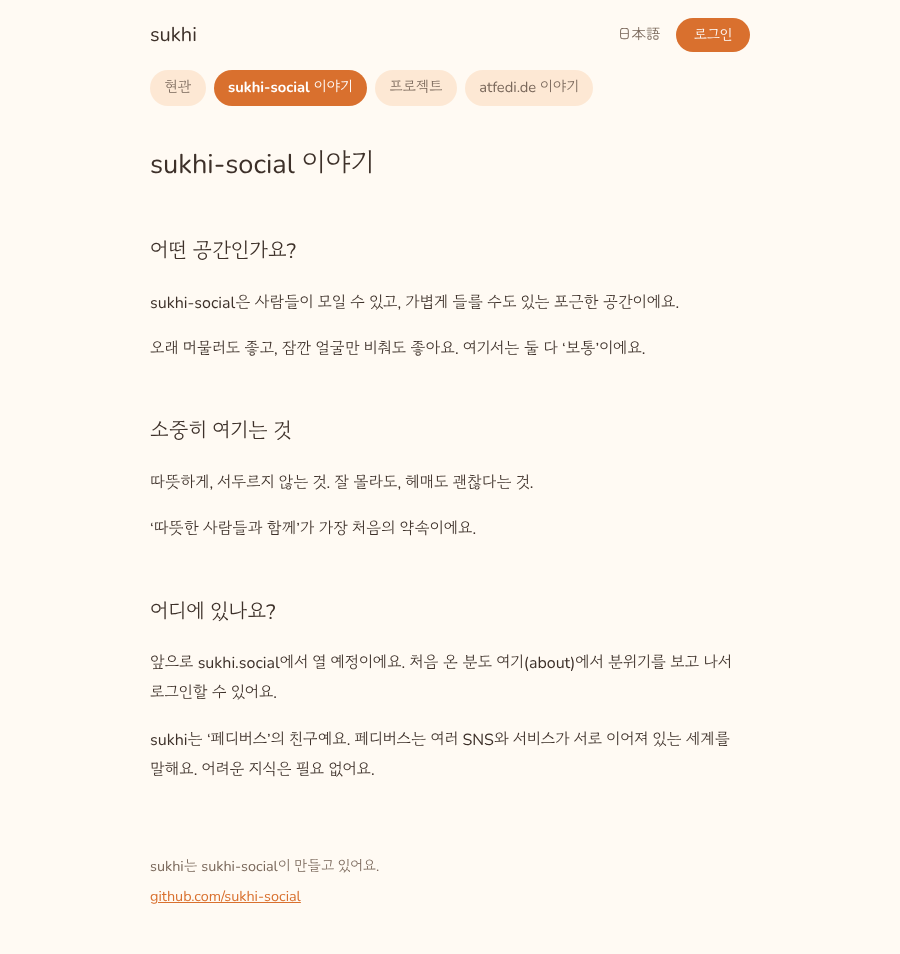
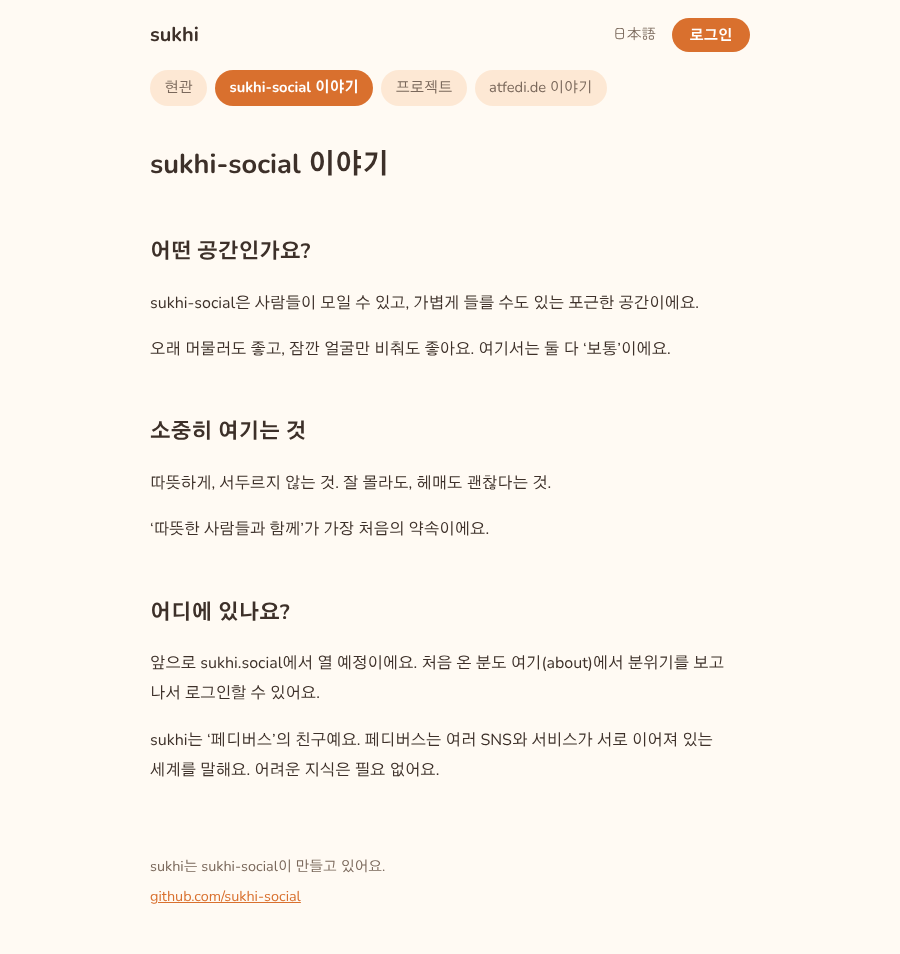
Korean font: Gothic A1 instead of Gowun Dodum (has bold, softer next to Zen Maru Gothic)
Claude-Session: https://claude.ai/code/session_01EUxHZau6UP3xLAsGqKBsmf

diff --git a/src/styles/about.css b/src/styles/about.css
@@ -25,7 +25,7 @@ body {
   margin: 0;
   background: var(--bg);
   color: var(--text);
-  font: 1rem/1.9 'Nunito', 'Zen Maru Gothic', 'Gowun Dodum', system-ui, 'Hiragino Sans', 'Noto Sans JP', 'Noto Sans KR', sans-serif;
+  font: 1rem/1.9 'Nunito', 'Zen Maru Gothic', 'Gothic A1', system-ui, 'Hiragino Sans', 'Noto Sans JP', 'Noto Sans KR', sans-serif;
   font-synthesis: none;
   word-break: keep-all;
   overflow-wrap: anywhere;
@@ -88,5 +88,3 @@ main { min-height: 50vh; }
 /* ── 右上: 言語とログイン ── */
 .bar .right { display: flex; align-items: center; gap: 1rem; }
 .button.small { padding: 0.3rem 1.1rem; font-size: 0.9rem; line-height: 1.7; }
-/* 韓国語の本文用フォント(Gowun Dodum)は太字がないので、見出しも標準の太さで、大きさでめりはりを出す。 */
-:lang(ko) h1, :lang(ko) h2, :lang(ko) strong, :lang(ko) .mark { font-weight: 400; }
